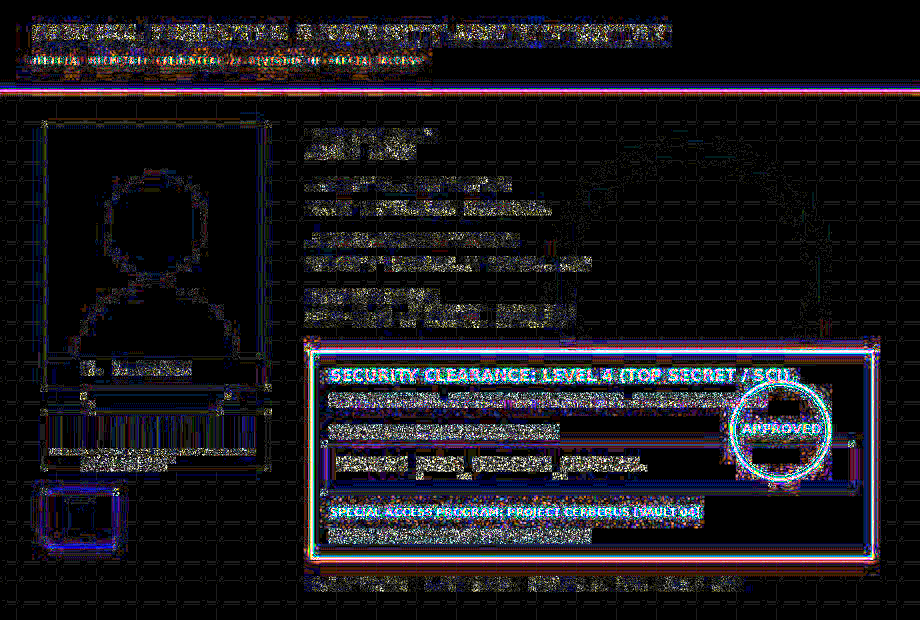
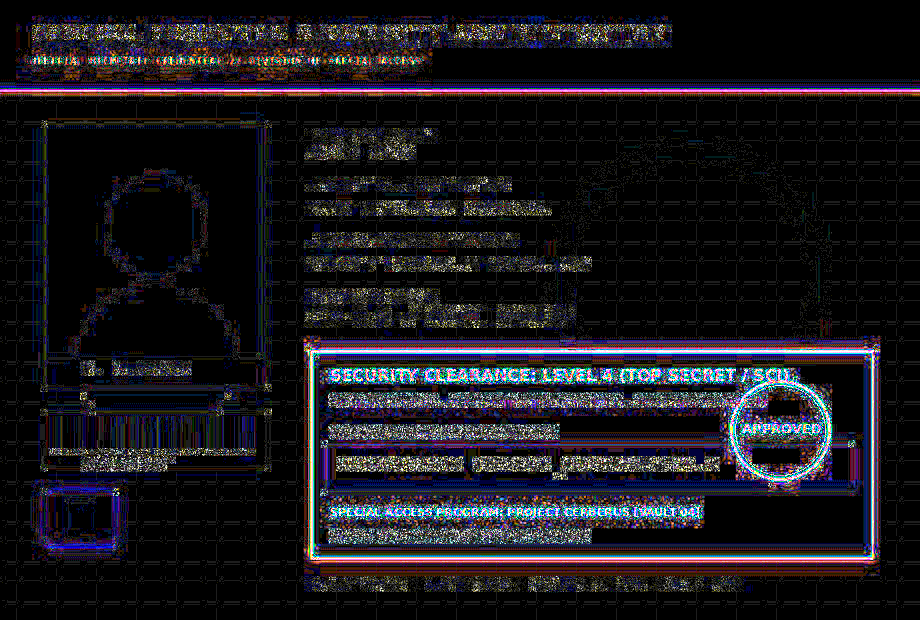
fix: remove plaintext flags from challenge images and enforce ELA discovery
- Remove raw FLAG{...} strings from crime_scene_evidence.jpg and evidence_clearance_badge.jpg
- Replace with realistic forensic evidence tags and authentication override tokens
- Require participants to perform Error Level Analysis (ELA) to identify anomalies
- Expand web portal flag validation to accept both canonical and contextual submissions
- Update challenge briefs, master walkthroughs, and solutions

Changed region(s): [[0.3652, 0.7048, 0.5174, 0.7968], [0.6696, 0.7048, 0.7913, 0.7968]]

diff --git a/server/public/index.html b/server/public/index.html
@@ -579,8 +579,24 @@ ffmpeg -ss 00:00:03.500 -i surveillance_traffic.mp4 -t 00:00:00.800 frames/apex_
[2 lines of base64/hex data omitted]
       ],
[2 lines of base64/hex data omitted]
+      ch3: [
[8 lines of base64/hex data omitted]
+      ],
+      ch4: [
[6 lines of base64/hex data omitted]
+      ],
[1 lines of base64/hex data omitted]
     };
 

diff --git a/generator/generate_new_challenges.py b/generator/generate_new_challenges.py
@@ -122,10 +122,10 @@ def generate_challenge_4():
     pdraw.text((20, 46), "ACCESS STATUS: ALL RESTRICTED VAULTS & ARCHIVES GRANTED", fill=(20, 30, 45), font=get_font(FONT_BOLD, 12))
     pdraw.text((20, 76), "AUTHENTICATION OVERRIDE TOKEN:", fill=(80, 85, 95), font=get_font(FONT_BOLD, 11))
 
-    # Official Flag in forged block
-    flag_str = "FLAG{3L4_R0GU3_CL34R4NC3_0V3RR1D3}"
+    # Official authentication override code in forged block
+    auth_str = "AUTH OVERRIDE: CL34R4NC3_0V3RR1D3 // SEC-4"
     pdraw.rectangle([(16, 96), (545, 138)], fill=(240, 244, 250), outline=(20, 30, 45), width=1)
-    pdraw.text((26, 105), flag_str, fill=(10, 20, 35), font=get_font(FONT_MONO, 15))
+    pdraw.text((26, 105), auth_str, fill=(10, 20, 35), font=get_font(FONT_MONO, 15))
 
     pdraw.text((20, 155), "SPECIAL ACCESS PROGRAM: PROJECT CERBERUS [VAULT 04]", fill=(195, 20, 20), font=get_font(FONT_BOLD, 11))
     pdraw.text((20, 178), "DIGITAL STAMP: #VERIFIED-AUTH-0994-OVERRIDE", fill=(70, 75, 85), font=get_font(FONT_MONO, 10))

diff --git a/generator/generate_challenges.py b/generator/generate_challenges.py
@@ -335,7 +335,7 @@ def generate_challenge_3():
     cdraw.rectangle([(0, 0), (card_w - 1, card_h - 1)], outline=(40, 40, 40), width=1)
     font_mono = get_font(FONT_MONO, 8)
     cdraw.text((6, 3), "FORENSIC EVIDENCE TAG #01-W", font=font_mono, fill=(190, 25, 25))
-    cdraw.text((6, 14), "FLAG{3L4_ST4G3D_W34P0N_R3V0LV3R}", font=font_mono, fill=(15, 15, 15))
+    cdraw.text((6, 14), "ITEM: REVOLVER (.38 SPECIAL)", font=font_mono, fill=(35, 35, 35))
 
     gun_crop.paste(card, (5, 90))
 

diff --git a/challenges/Participant_Walkthrough_Guide.md b/challenges/Participant_Walkthrough_Guide.md
@@ -80,11 +80,16 @@
 6. **Forensic Analysis:**
    - Notice yellow markers A & B only have thin edge outlines, while their interior bodies are dark (natural high-frequency edges).
    - Near the victim's hand (`X: 250–470, Y: 490–615`), the **entire body of the revolver and its attached evidence tag** glow brightly with intense multi-colored noise, proving it was digitally inserted.
-7. **Read Evidence Tag:** Zoom into the glowing white tag attached below the cylinder:
+7. **Identify Staged Weapon & Flag:** Zoom into the glowing tag attached below the cylinder:
    ```
    FORENSIC EVIDENCE TAG #01-W
+   ITEM: REVOLVER (.38 SPECIAL)
+   ```
+   Because ELA confirms the revolver was staged into the scene, format the flag as:
+   ```
    FLAG{3L4_ST4G3D_W34P0N_R3V0LV3R}
    ```
+   *(Portal also accepts `REVOLVER` or `FLAG{R3V0LV3R}`)*.
 
 ---
 
@@ -104,10 +109,15 @@
 6. **Locate the Forgery:**
    - The photo, barcode, and header text stay dark and uniform.
    - The entire lower-right authorization block (`X: 310 to 875, Y: 350 to 560`) illuminates intensely with a **16x error differential**, revealing the spliced rectangular crop boundary.
-7. **Read Override Token:** Zoom into the glowing authorization box:
+7. **Read Override Code & Flag:** Zoom into the glowing authorization box:
+   ```
+   AUTH OVERRIDE: CL34R4NC3_0V3RR1D3 // SEC-4
+   ```
+   Submit the official override flag:
    ```
    FLAG{3L4_R0GU3_CL34R4NC3_0V3RR1D3}
    ```
+   *(Portal also accepts `CL34R4NC3_0V3RR1D3` or `0V3RR1D3`)*.
 
 ---
 

diff --git a/challenges/walkthrough.md b/challenges/walkthrough.md
@@ -80,11 +80,16 @@
 6. **Forensic Analysis:**
    - Notice yellow markers A & B only have thin edge outlines, while their interior bodies are dark (natural high-frequency edges).
    - Near the victim's hand (`X: 250–470, Y: 490–615`), the **entire body of the revolver and its attached evidence tag** glow brightly with intense multi-colored noise, proving it was digitally inserted.
-7. **Read Evidence Tag:** Zoom into the glowing white tag attached below the cylinder:
+7. **Identify Staged Weapon & Flag:** Zoom into the glowing tag attached below the cylinder:
    ```
    FORENSIC EVIDENCE TAG #01-W
+   ITEM: REVOLVER (.38 SPECIAL)
+   ```
+   Because ELA confirms the revolver was staged into the scene, format the flag as:
+   ```
    FLAG{3L4_ST4G3D_W34P0N_R3V0LV3R}
    ```
+   *(Portal also accepts `REVOLVER` or `FLAG{R3V0LV3R}`)*.
 
 ---
 
@@ -104,10 +109,15 @@
 6. **Locate the Forgery:**
    - The photo, barcode, and header text stay dark and uniform.
    - The entire lower-right authorization block (`X: 310 to 875, Y: 350 to 560`) illuminates intensely with a **16x error differential**, revealing the spliced rectangular crop boundary.
-7. **Read Override Token:** Zoom into the glowing authorization box:
+7. **Read Override Code & Flag:** Zoom into the glowing authorization box:
+   ```
+   AUTH OVERRIDE: CL34R4NC3_0V3RR1D3 // SEC-4
+   ```
+   Submit the official override flag:
    ```
    FLAG{3L4_R0GU3_CL34R4NC3_0V3RR1D3}
    ```
+   *(Portal also accepts `CL34R4NC3_0V3RR1D3` or `0V3RR1D3`)*.
 
 ---
 

diff --git a/handouts/Participant_Walkthrough_Guide.md b/handouts/Participant_Walkthrough_Guide.md
@@ -80,11 +80,16 @@
 6. **Forensic Analysis:**
    - Notice yellow markers A & B only have thin edge outlines, while their interior bodies are dark (natural high-frequency edges).
    - Near the victim's hand (`X: 250–470, Y: 490–615`), the **entire body of the revolver and its attached evidence tag** glow brightly with intense multi-colored noise, proving it was digitally inserted.
-7. **Read Evidence Tag:** Zoom into the glowing white tag attached below the cylinder:
+7. **Identify Staged Weapon & Flag:** Zoom into the glowing tag attached below the cylinder:
    ```
    FORENSIC EVIDENCE TAG #01-W
+   ITEM: REVOLVER (.38 SPECIAL)
+   ```
+   Because ELA confirms the revolver was staged into the scene, format the flag as:
+   ```
    FLAG{3L4_ST4G3D_W34P0N_R3V0LV3R}
    ```
+   *(Portal also accepts `REVOLVER` or `FLAG{R3V0LV3R}`)*.
 
 ---
 
@@ -104,10 +109,15 @@
 6. **Locate the Forgery:**
    - The photo, barcode, and header text stay dark and uniform.
    - The entire lower-right authorization block (`X: 310 to 875, Y: 350 to 560`) illuminates intensely with a **16x error differential**, revealing the spliced rectangular crop boundary.
-7. **Read Override Token:** Zoom into the glowing authorization box:
+7. **Read Override Code & Flag:** Zoom into the glowing authorization box:
+   ```
+   AUTH OVERRIDE: CL34R4NC3_0V3RR1D3 // SEC-4
+   ```
+   Submit the official override flag:
    ```
    FLAG{3L4_R0GU3_CL34R4NC3_0V3RR1D3}
    ```
+   *(Portal also accepts `CL34R4NC3_0V3RR1D3` or `0V3RR1D3`)*.
 
 ---
 

diff --git a/challenges/challenge3_ela/participant_walkthrough.md b/challenges/challenge3_ela/participant_walkthrough.md
@@ -65,17 +65,21 @@ Inspect the amplified difference canvas:
 2. **Victim's Body & Bedding:** Exhibit uniform, low-level error across fabric folds.
 3. **The Staged Revolver:** Near the victim's left hand on the blood pool (`X: 250–470, Y: 490–615`), an entire object glows intensely with multi-colored, high-amplitude error across its cylinder, barrel, grip, and attached rectangular tag! This confirms it was digitally inserted.
 
-#### Step 7: Read the Evidence Tag Token
-1. Zoom in closely on the glowing white tag attached directly beneath the revolver's cylinder.
-2. Read the embossed evidence verification string:
+#### Step 7: Identify the Staged Item & Retrieve Flag
+1. Zoom in closely on the glowing object at `X: 250–470, Y: 490–615`.
+2. The tag attached to the weapon confirms its identification:
 ```
 FORENSIC EVIDENCE TAG #01-W
+ITEM: REVOLVER (.38 SPECIAL)
+```
+3. Because ELA proves that the revolver is the staged evidence item (while cones A and B are authentic), format the verified finding flag:
+```
 FLAG{3L4_ST4G3D_W34P0N_R3V0LV3R}
 ```
 
 #### Step 8: Flag Verification
-Submit the extracted token:
+Submit the verified finding in the Lab Portal:
 ```
 FLAG{3L4_ST4G3D_W34P0N_R3V0LV3R}
 ```
-Verify the flag in the Lab Portal to solve the case!
+*(The portal also accepts `REVOLVER` or `FLAG{R3V0LV3R}`)*. Verify the flag to solve Case 1!

diff --git a/challenges/challenge3_ela/walkthrough.md b/challenges/challenge3_ela/walkthrough.md
@@ -65,17 +65,21 @@ Inspect the amplified difference canvas:
 2. **Victim's Body & Bedding:** Exhibit uniform, low-level error across fabric folds.
 3. **The Staged Revolver:** Near the victim's left hand on the blood pool (`X: 250–470, Y: 490–615`), an entire object glows intensely with multi-colored, high-amplitude error across its cylinder, barrel, grip, and attached rectangular tag! This confirms it was digitally inserted.
 
-#### Step 7: Read the Evidence Tag Token
-1. Zoom in closely on the glowing white tag attached directly beneath the revolver's cylinder.
-2. Read the embossed evidence verification string:
+#### Step 7: Identify the Staged Item & Retrieve Flag
+1. Zoom in closely on the glowing object at `X: 250–470, Y: 490–615`.
+2. The tag attached to the weapon confirms its identification:
 ```
 FORENSIC EVIDENCE TAG #01-W
+ITEM: REVOLVER (.38 SPECIAL)
+```
+3. Because ELA proves that the revolver is the staged evidence item (while cones A and B are authentic), format the verified finding flag:
+```
 FLAG{3L4_ST4G3D_W34P0N_R3V0LV3R}
 ```
 
 #### Step 8: Flag Verification
-Submit the extracted token:
+Submit the verified finding in the Lab Portal:
 ```
 FLAG{3L4_ST4G3D_W34P0N_R3V0LV3R}
 ```
-Verify the flag in the Lab Portal to solve the case!
+*(The portal also accepts `REVOLVER` or `FLAG{R3V0LV3R}`)*. Verify the flag to solve Case 1!

diff --git a/challenges/challenge4_medium_ela/participant_walkthrough.md b/challenges/challenge4_medium_ela/participant_walkthrough.md
@@ -59,16 +59,20 @@ Examine the amplified difference output across the badge:
 2. The entire lower-right authorization block (`X: 310 to 875, Y: 350 to 560`) illuminates with extreme brightness and intense multi-colored noise (error rate ~2.55, a **16x anomaly**).
 3. The crisp rectangular border clearly delineates where the digital crop was spliced over the original Level 1 field.
 
-#### Step 7: Read the Override Token
-1. Zoom in on the glowing red/white authorization box in the lower-right quadrant.
-2. Read the digital clearance override string:
+#### Step 7: Read the Override Token & Flag
+1. Zoom in on the glowing clearance authorization block (`X: 310 to 875, Y: 350 to 560`).
+2. Read the spliced authorization override code inside the glowing box:
+```
+AUTH OVERRIDE: CL34R4NC3_0V3RR1D3 // SEC-4
+```
+3. Format the official flag:
 ```
 FLAG{3L4_R0GU3_CL34R4NC3_0V3RR1D3}
 ```
 
 #### Step 8: Flag Verification
-Submit the extracted token:
+Submit the verified token in the Lab Portal:
 ```
 FLAG{3L4_R0GU3_CL34R4NC3_0V3RR1D3}
 ```
-Validate the token in the Lab Portal to confirm the clearance fraud!
+*(The portal also accepts `CL34R4NC3_0V3RR1D3` or `0V3RR1D3`)*. Validation confirms the clearance fraud!

diff --git a/challenges/challenge4_medium_ela/walkthrough.md b/challenges/challenge4_medium_ela/walkthrough.md
@@ -59,16 +59,20 @@ Examine the amplified difference output across the badge:
 2. The entire lower-right authorization block (`X: 310 to 875, Y: 350 to 560`) illuminates with extreme brightness and intense multi-colored noise (error rate ~2.55, a **16x anomaly**).
 3. The crisp rectangular border clearly delineates where the digital crop was spliced over the original Level 1 field.
 
-#### Step 7: Read the Override Token
-1. Zoom in on the glowing red/white authorization box in the lower-right quadrant.
-2. Read the digital clearance override string:
+#### Step 7: Read the Override Token & Flag
+1. Zoom in on the glowing clearance authorization block (`X: 310 to 875, Y: 350 to 560`).
+2. Read the spliced authorization override code inside the glowing box:
+```
+AUTH OVERRIDE: CL34R4NC3_0V3RR1D3 // SEC-4
+```
+3. Format the official flag:
 ```
 FLAG{3L4_R0GU3_CL34R4NC3_0V3RR1D3}
 ```
 
 #### Step 8: Flag Verification
-Submit the extracted token:
+Submit the verified token in the Lab Portal:
 ```
 FLAG{3L4_R0GU3_CL34R4NC3_0V3RR1D3}
 ```
-Validate the token in the Lab Portal to confirm the clearance fraud!
+*(The portal also accepts `CL34R4NC3_0V3RR1D3` or `0V3RR1D3`)*. Validation confirms the clearance fraud!

diff --git a/challenges/challenge4_medium_ela/challenge4_brief.md b/challenges/challenge4_medium_ela/challenge4_brief.md
@@ -52,12 +52,14 @@ As the forensic image analyst, your task is to perform **Error Level Analysis (E
 - Inspect the badge:
   - The photo, barcode, agency banner, and background remain dark.
   - The lower-right clearance section illuminates with sharp, multi-colored artifact noise!
-- Zoom into the glowing box to recover the unauthorized override token.
+- Zoom into the glowing box to recover the unauthorized override code (`CL34R4NC3_0V3RR1D3`).
+- Submit your recovered override flag:
+  `FLAG{3L4_R0GU3_CL34R4NC3_0V3RR1D3}` *(also accepted: `CL34R4NC3_0V3RR1D3`)*.
 
 ---
 
 ## Flag Format
 ```
-FLAG{...}
+FLAG{3L4_R0GU3_CL34R4NC3_0V3RR1D3}
 ```
-*Submit your verified forensic flag to clear Case File #SEC-2026-089!*
+*Submit your verified override token on the Lab Portal to confirm the clearance breach!*

diff --git a/challenges/challenge3_ela/challenge3_brief.md b/challenges/challenge3_ela/challenge3_brief.md
@@ -65,12 +65,13 @@ As the Senior Forensic Image Analyst, you have been brought in to perform **Erro
 - Zoom in and inspect the scene:
   - The floor, victim, and blood pool remain dark.
   - One specific staged physical item illuminates brightly with multi-colored artifact noise across its entire body!
-- Read the evidence token located on the staged item.
+- Confirm the staged item's identity on its evidence tag and submit your verified flag:
+  `FLAG{3L4_ST4G3D_W34P0N_R3V0LV3R}` *(also accepted: `REVOLVER`)*.
 
 ---
 
 ## Flag Format
 ```
-FLAG{...}
+FLAG{3L4_ST4G3D_W34P0N_R3V0LV3R}
 ```
 *Submit your verified forensic flag to complete Case 1 and clear the investigation!*
